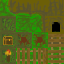
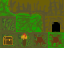
Moved bridges to seperate layer

diff --git a/src/indexes.h b/src/indexes.h
@@ -14,6 +14,7 @@ enum CollisionType {
 enum CollisionLayer {
 	MAP,
 	LOWERPLAYER,
+	BRIDGELAYER,
 	UPPERPLAYER,
 	INPUT,
 	TREES,
@@ -25,20 +26,20 @@ static const std::map<char, int> displayIndex = {
 	{' ', -1},
 	{'\\',0},
 	{'_', 1},
+	{'-', 1},
 	{'+', 2},
 	{'#', 3},
 	{',', 4},
 	{'.', 5},
+	{'=', 5},
+	{'[', 5},
 	{'|', 6},
+	{']', 6},
 	{'@', 7},
 	{'H', 8},
-	{'T', 9},
-	{'t', 10},
-	{'-', 11},
-	{'!', 12},
-	{'[', 13},
-	{']', 14},
-	{'=', 15}
+	{'!', 9},
+	{'T', 10},
+	{'t', 11}
 };
 
 static const std::map<char, int> collisionIndex = {
@@ -86,4 +87,13 @@ static const std::map<char, int> treetopIndex = {
 	{'#', -1},
 	{'T', 0},
 	{'t', 0}
+};
+
+static const std::map<char, int> bridgeIndex = {
+	{' ', -1},
+	{'#', -1},
+	{'[', 0},
+	{']', 1},
+	{'=', 2},
+	{'-', 3}
 };

diff --git a/src/main.cpp b/src/main.cpp
@@ -14,6 +14,10 @@ int main() {
 	Indexer treetopMap(&grid, treetopIndex, -1);
 	UpdateList::addNode(&forest);
 
+	//Add overlapping bridges
+	TileMap bridges("res/bridge.png", 16, 16, Indexer(&grid, bridgeIndex, -1), BRIDGELAYER);
+	UpdateList::addNode(&bridges);
+
 	//Add overlapping tree middles
 	TileMap treemid("res/treemid.png", 16, 16, treetopMap, TREES);
 	treemid.setPosition(0, -6);
